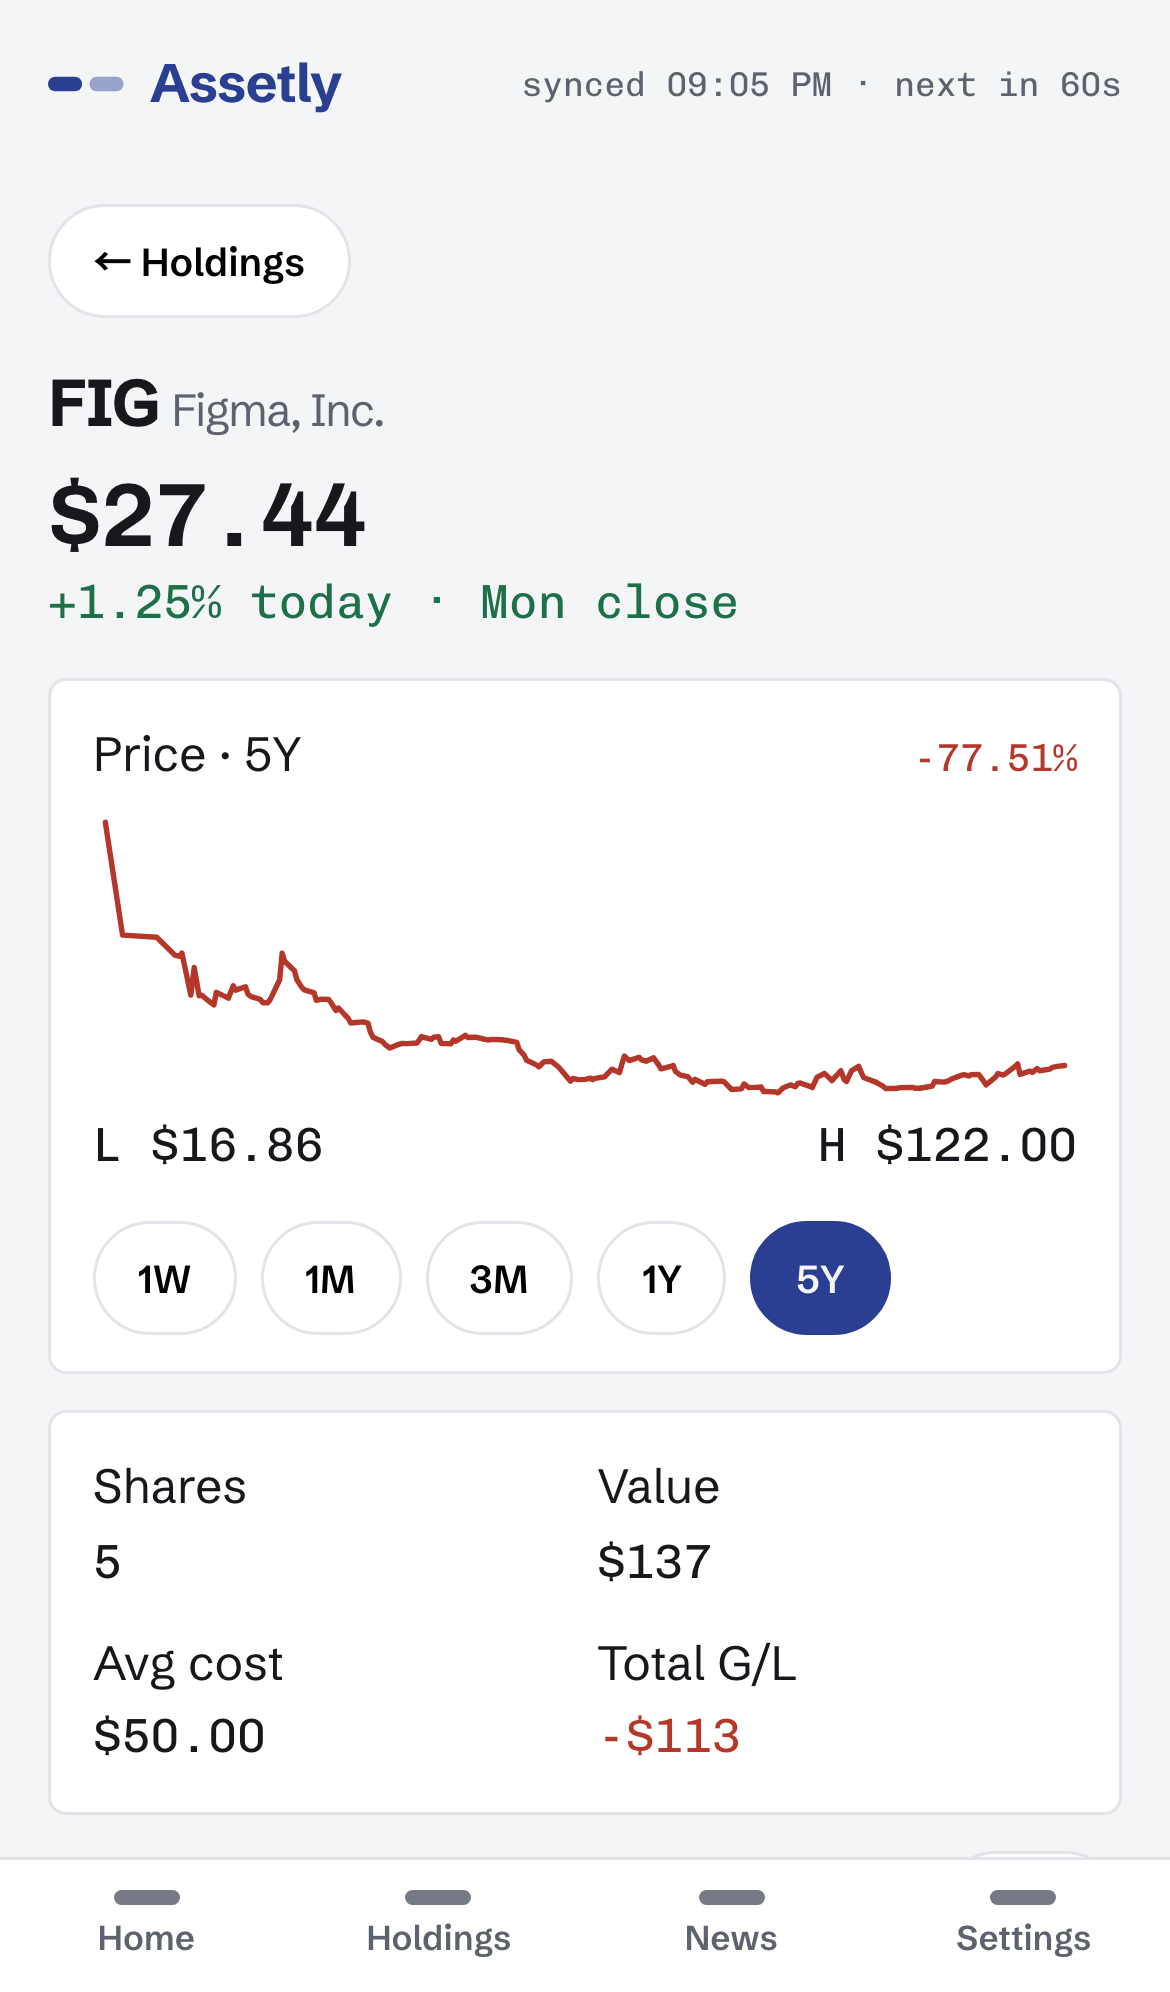
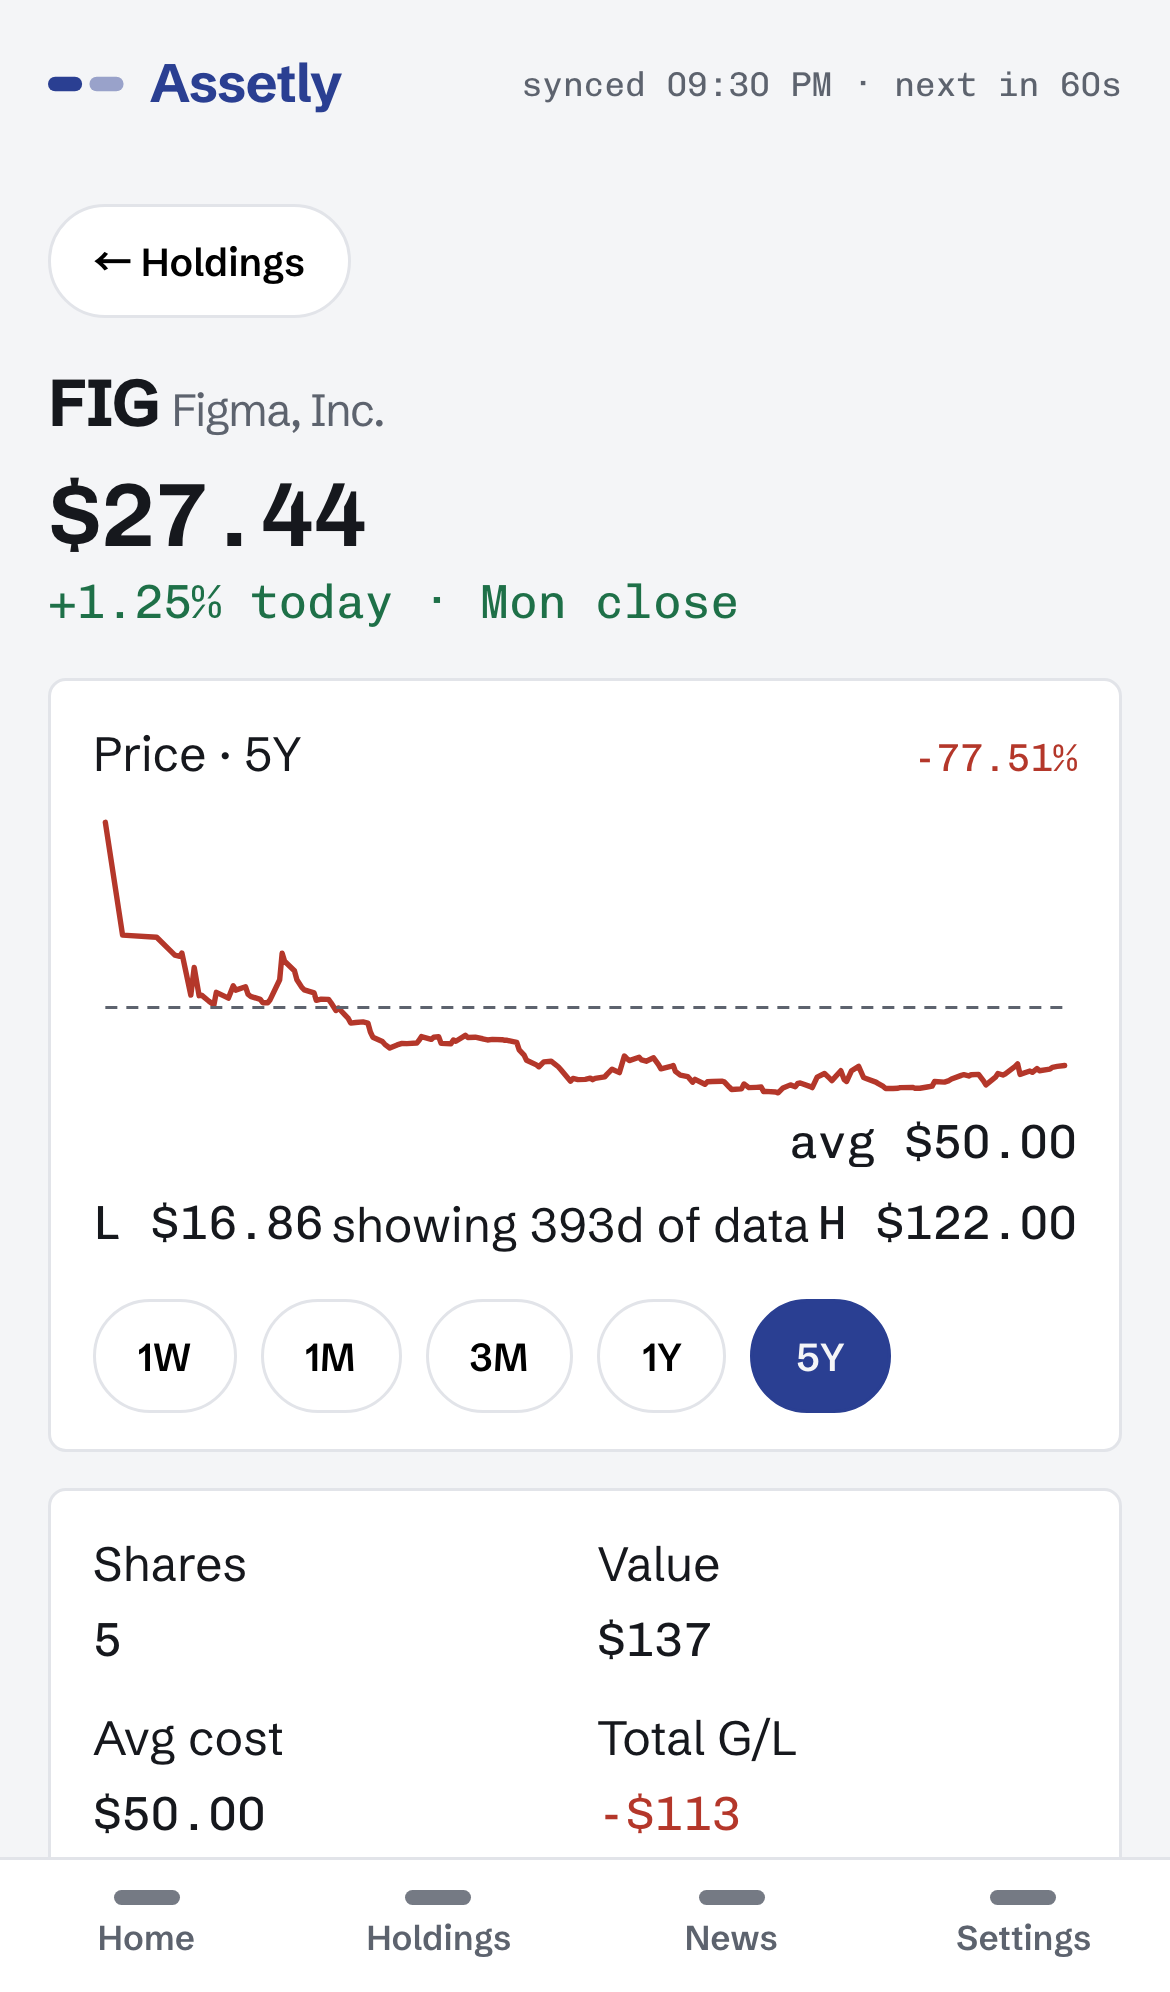
Docs: persona-fleet outcomes and triage
Claude-Session: https://claude.ai/code/session_01UrXDbe72LnXzKfy7ekZgnY

Changed region(s): [[0.0615, 0.5602, 0.9231, 0.9337], [0.4923, 0.7159, 0.6769, 0.9337], [0.3385, 0.6847, 0.3692, 0.7159]]

diff --git a/QUALITY.md b/QUALITY.md
@@ -50,6 +50,17 @@ production project; **Judged** = scored against the stated criterion.
 8. iPhone e2e race on derived-average assertion → wait-for.
 9. (8/24) Yahoo search API rejects Hangul queries ("Invalid Search Query") → server-side
    Korean→English alias rewrite in symbol-search; caught by cloud battery C3.
+10d. (8/25) 10-persona / 30-day simulation fleet ran (10 sim agents + PM synthesis agent).
+   REAL bugs found and fixed: mixed USD/KRW books were summed RAW (now converted via a
+   cron-fresh USDKRW rate from Yahoo KRW=X, with a visible FX caption; unconvertible rows
+   excluded, never mislabeled); catalog-hit adds skipped backfill (ensure now always runs).
+   Shipped improvements from persona demand: today's $ move + per-row day % on Home,
+   dashed avg-cost overlay on charts, crypto units ("0.5 BTC"), "since last close" label
+   for stale prints, "showing Nd of data" partial-range captions. Triage notes: several
+   fleet reports (empty charts, onboarding showing 1-of-N, add-lot dead button) traced to
+   sim-environment artifacts (local DB lacked the prod backfill sweep; harness races) —
+   verified not product bugs. PM's not-worth list (dividends, BTC-denominated view,
+   localization workstream, 15s polling, watchlist, realized P/L) recorded in answers/.
 10c. (8/25) Chart redraw per user feedback: daily closes only (one point per day, live
    price = today's point while trading); 1D chip dropped. Instant news: news-sync gained
    CORS + on-demand {symbols} pulls, add-flows fire an immediate pull, News screen
